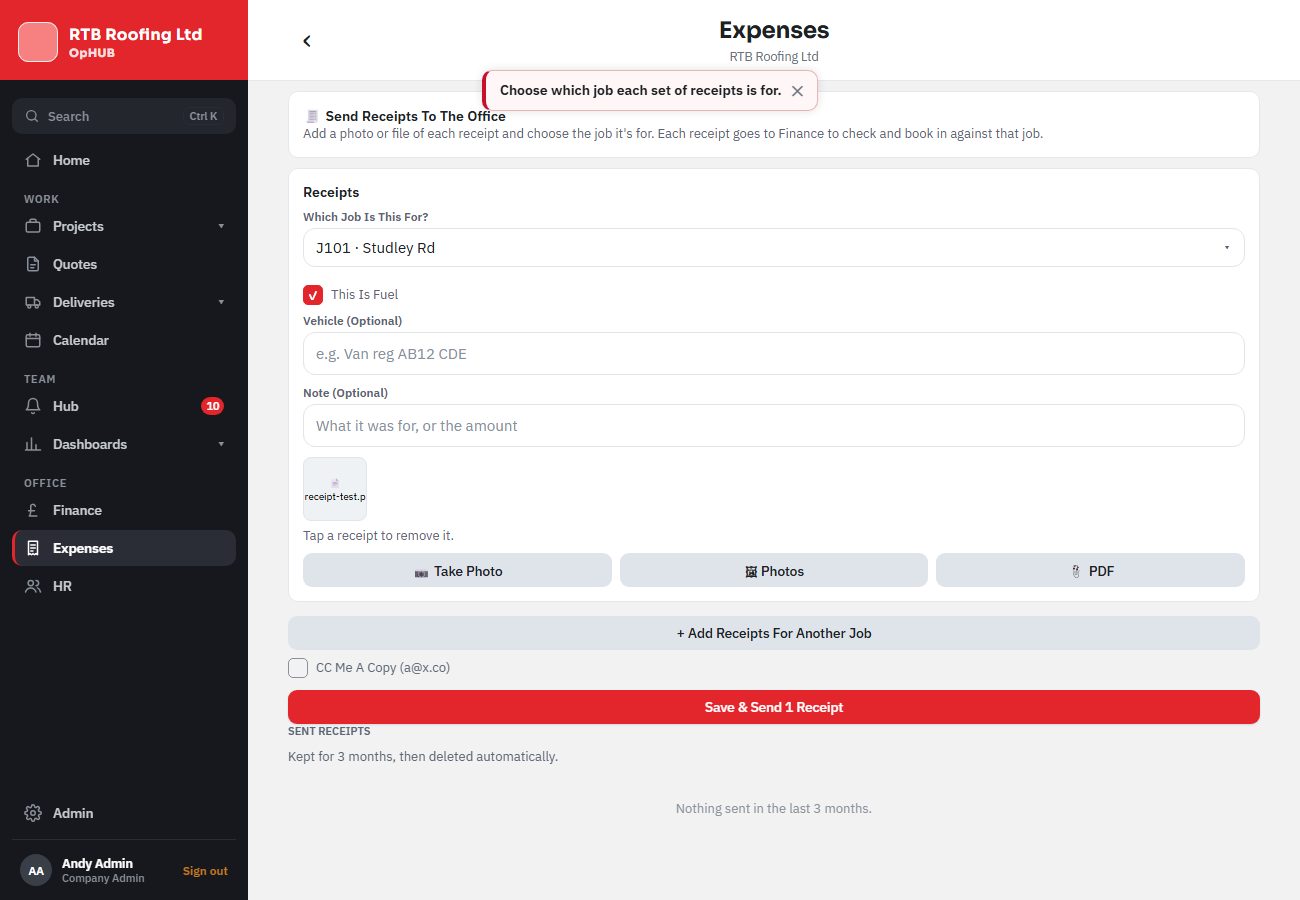
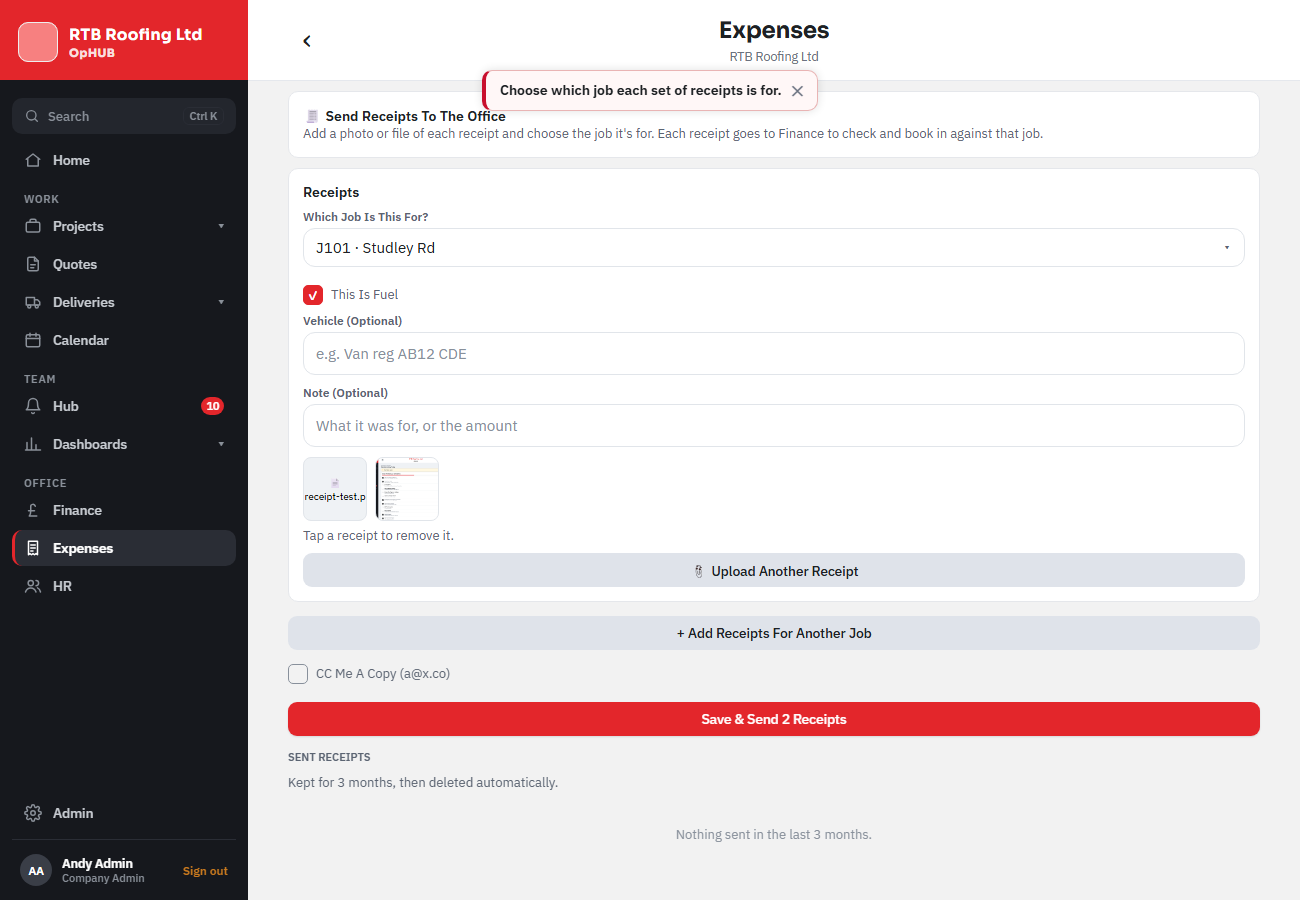
Expenses: one 📎 Upload Receipt button (the phone's own Take Photo / Photo Library / Choose File; photos and PDFs, several at once; photos made smaller) instead of Take Photo / Photos / PDF, and the page's buttons all full width and the same size (Andy, 19 Nov)
Claude-Session: https://claude.ai/code/session_012KhfNvBEbifMJmPdX7yZfp

diff --git a/app-native/src/app/(app)/expenses.tsx b/app-native/src/app/(app)/expenses.tsx
@@ -8,9 +8,9 @@ import { useQueryClient } from '@tanstack/react-query';
 import * as DocumentPicker from 'expo-document-picker';
 import { Stack, useLocalSearchParams } from 'expo-router';
 import { useState } from 'react';
-import { Image, Pressable, ScrollView, Text, View } from 'react-native';
+import { Image, Platform, Pressable, ScrollView, Text, View } from 'react-native';
 
-import { confirmAsk, showAlert, useToast } from '@/components/toast';
+import { chooseAction, confirmAsk, showAlert, useToast } from '@/components/toast';
 import { SelectBox } from '@/components/SelectBox';
 import { Button, Card, Check, Empty, Field, Muted, Row, SectionTitle } from '@/components/ui';
 import { viewDoc } from '@/components/DocViewer';
@@ -48,11 +48,27 @@ export default function Expenses() {
     if ('error' in p) { showAlert(p.error); return; }
     upd(g.key, { files: [...g.files, ...p.map((x) => ({ name: 'receipt.jpg', uri: x.uri, isPdf: false, picked: x }))] });
   };
-  const addPdf = async (g: ExpGroup) => {
-    const r = await DocumentPicker.getDocumentAsync({ type: 'application/pdf', multiple: true, copyToCacheDirectory: true });
+  // Photos of receipts or PDFs, several at once. On an iPhone the website's chooser is the phone's own: Take Photo,
+  // Photo Library or Choose File. Photos are made smaller before they go, as from the camera.
+  const addFiles = async (g: ExpGroup) => {
+    const r = await DocumentPicker.getDocumentAsync({ type: ['image/*', 'application/pdf'], multiple: true, copyToCacheDirectory: true });
     if (r.canceled) return;
     const ok = r.assets.filter((a) => { if ((a.size || 0) > 15 * 1024 * 1024) { toast(`${a.name || 'That file'} is over 15MB — too big to send.`); return false; } return true; });
-    upd(g.key, { files: [...g.files, ...ok.map((a) => ({ name: a.name || 'receipt.pdf', uri: a.uri, isPdf: true, size: a.size }))] });
+    const size = (uri: string) => new Promise<{ width: number; height: number } | null>((res) => Image.getSize(uri, (width, height) => res({ width, height }), () => res(null)));
+    const files = await Promise.all(ok.map(async (a) => {
+      const isPdf = /pdf/i.test(a.mimeType || '') || /\.pdf$/i.test(a.name || '');
+      if (isPdf) return { name: a.name || 'receipt.pdf', uri: a.uri, isPdf: true, size: a.size };
+      const d = await size(a.uri);
+      return { name: 'receipt.jpg', uri: a.uri, isPdf: false, size: a.size, ...(d ? { picked: { uri: a.uri, ...d } } : {}) };
+    }));
+    setGroups((gs) => gs.map((x) => (x.key === g.key ? { ...x, files: [...x.files, ...files] } : x)));
+  };
+  // One Upload button (Andy, 19 Nov 2026: "remove the 3 buttons and have it as an upload button which is camera, photos
+  // or files as normal"). In the phone apps, where the chooser is only files, it asks which first.
+  const upload = async (g: ExpGroup) => {
+    if (Platform.OS === 'web') { await addFiles(g); return; }
+    const k = await chooseAction('Upload Receipt', [{ key: 'camera', label: '📷 Take Photo' }, { key: 'library', label: '🖼 Photo Library' }, { key: 'files', label: '📎 Files' }]);
+    if (k === 'camera' || k === 'library') await addPhotos(g, k); else if (k === 'files') await addFiles(g);
   };
   const save = async () => {
     const p = expProblem(groups);
@@ -97,16 +113,14 @@ export default function Expenses() {
             </View>
           )}
           {g.files.length > 0 && <Muted style={{ marginBottom: 4 }}>Tap a receipt to remove it.</Muted>}
-          <View style={{ flexDirection: 'row', gap: 8 }}>
-            <View style={{ flex: 1 }}><Button kind="ghost" disabled={!!busy} title="📷 Take Photo" onPress={() => addPhotos(g, 'camera')} /></View>
-            <View style={{ flex: 1 }}><Button kind="ghost" disabled={!!busy} title="🖼 Photos" onPress={() => addPhotos(g, 'library')} /></View>
-            <View style={{ flex: 1 }}><Button kind="ghost" disabled={!!busy} title="📎 PDF" onPress={() => addPdf(g)} /></View>
-          </View>
+          <Button kind="ghost" disabled={!!busy} title={g.files.length ? '📎 Upload Another Receipt' : '📎 Upload Receipt'} onPress={() => void upload(g)} />
         </Card>
       ))}
+      {/* The page's buttons all full width and the same height (Andy, 19 Nov 2026: "the buttons need to be the same size"). */}
       <Button kind="ghost" disabled={!!busy} title="+ Add Receipts For Another Job" onPress={() => setGroups([...groups, newGroup(null)])} />
-      <Check label={`CC Me A Copy${me.email ? ` (${me.email})` : ''}`} value={ccMe} onChange={setCcMe} />
+      <View style={{ marginVertical: 6 }}><Check label={`CC Me A Copy${me.email ? ` (${me.email})` : ''}`} value={ccMe} onChange={setCcMe} /></View>
       <Button disabled={!!busy || !total} busy={!!busy} title={busy || (total ? `Save & Send ${total} Receipt${total === 1 ? '' : 's'}` : 'Add A Receipt To Send')} onPress={save} />
+      <View style={{ height: 14 }} />
 
       <SectionTitle>Sent Receipts</SectionTitle>
       <Muted style={{ marginBottom: 8 }}>Kept for {recent?.months ?? 3} months, then deleted automatically.</Muted>

diff --git a/tools/test-harness/expenses19-check.js b/tools/test-harness/expenses19-check.js
@@ -34,9 +34,13 @@ const navOrder = (page) => page.evaluate(() => [...document.querySelectorAll('[r
     let t = (await page.locator('body').innerText()).replace(/\s+/g, ' ');
     check(/goes to Finance to check and book in/.test(t) && /Which Job Is This For\?/.test(t) && !/A job not on the app/.test(t), 'every receipt is put against a job on the app, and goes to Finance');
     // Add a receipt without choosing a job: it won't save.
-    const [chooser] = await Promise.all([page.waitForEvent('filechooser'), page.getByText('📎 PDF', {exact: true}).first().click()]);
-    await chooser.setFiles(tmp); await page.waitForTimeout(800);
-    await page.getByText(/^Save & Send 1 Receipt$/).click(); await page.waitForTimeout(800);
+    // One Upload button: the phone's own chooser for photos (camera or library) and files (Andy, 19 Nov 2026).
+    check(!/Take Photo|🖼 Photos|📎 PDF/.test(t) && /📎 Upload Receipt/.test(t), 'one Upload Receipt button instead of three');
+    const [chooser] = await Promise.all([page.waitForEvent('filechooser'), page.getByText('📎 Upload Receipt', {exact: true}).first().click()]);
+    const accept = await chooser.element().getAttribute('accept');
+    check(/image\/\*/.test(accept || '') && /application\/pdf/.test(accept || '') && chooser.isMultiple(), `it takes photos and PDFs, several at once (${accept})`);
+    await chooser.setFiles([tmp, path.join(__dirname, 'shots', 'receipt-photo-test.png')].filter((f) => fs.existsSync(f))); await page.waitForTimeout(1500);
+    await page.getByText(/^Save & Send 2 Receipts$/).click(); await page.waitForTimeout(800);
     t = (await page.locator('body').innerText()).replace(/\s+/g, ' ');
     check(/Choose which job each set of receipts is for\./.test(t) && db.expenses.length === 0, 'without a job it asks for one and saves nothing');
     await page.getByText('Choose The Job…', {exact: true}).first().click(); await page.waitForTimeout(800);
@@ -44,9 +48,11 @@ const navOrder = (page) => page.evaluate(() => [...document.querySelectorAll('[r
     await page.getByText(new RegExp(site.name.replace(/[.*+?^${}()|[\]\\]/g, '\\$&') + '$')).last().click(); await page.waitForTimeout(600);
     await page.getByText('This Is Fuel', {exact: true}).click(); await page.waitForTimeout(300);
     await page.screenshot({path: path.join(__dirname, 'shots', 'expenses19-page.png')});
-    await page.getByText(/^Save & Send 1 Receipt$/).click(); await page.waitForTimeout(4000);
+    await page.setViewportSize({width: 390, height: 844}); await page.waitForTimeout(800);
+    await page.screenshot({path: path.join(__dirname, 'shots', 'expenses19-phone.png'), fullPage: true});
+    await page.getByText(/^Save & Send 2 Receipts$/).click(); await page.waitForTimeout(5000);
     const row = db.expenses[0] || {};
-    check(row.site_id === S1 && row.category === 'fuel', `saved against the job, as fuel (${row.site_id}, ${row.category})`);
+    check(row.site_id === S1 && row.category === 'fuel' && (row.file_paths || []).length === 2 && (row.file_paths || []).some((p) => /.jpg$/.test(p)) && (row.file_paths || []).some((p) => /.pdf$/.test(p)), `saved against the job, as fuel, with the photo and the PDF (${row.site_id}, ${row.category}, ${(row.file_paths || []).length} files)`);
     t = (await page.locator('body').innerText()).replace(/\s+/g, ' ');
     check(new RegExp(`${site.name.replace(/[.*+?^${}()|[\]\\]/g, '\\$&')} — Fuel`).test(t), 'it shows under Sent Receipts with its job');
     // Not on the job's Materials page any more; the old link opens Expenses with the job chosen.
